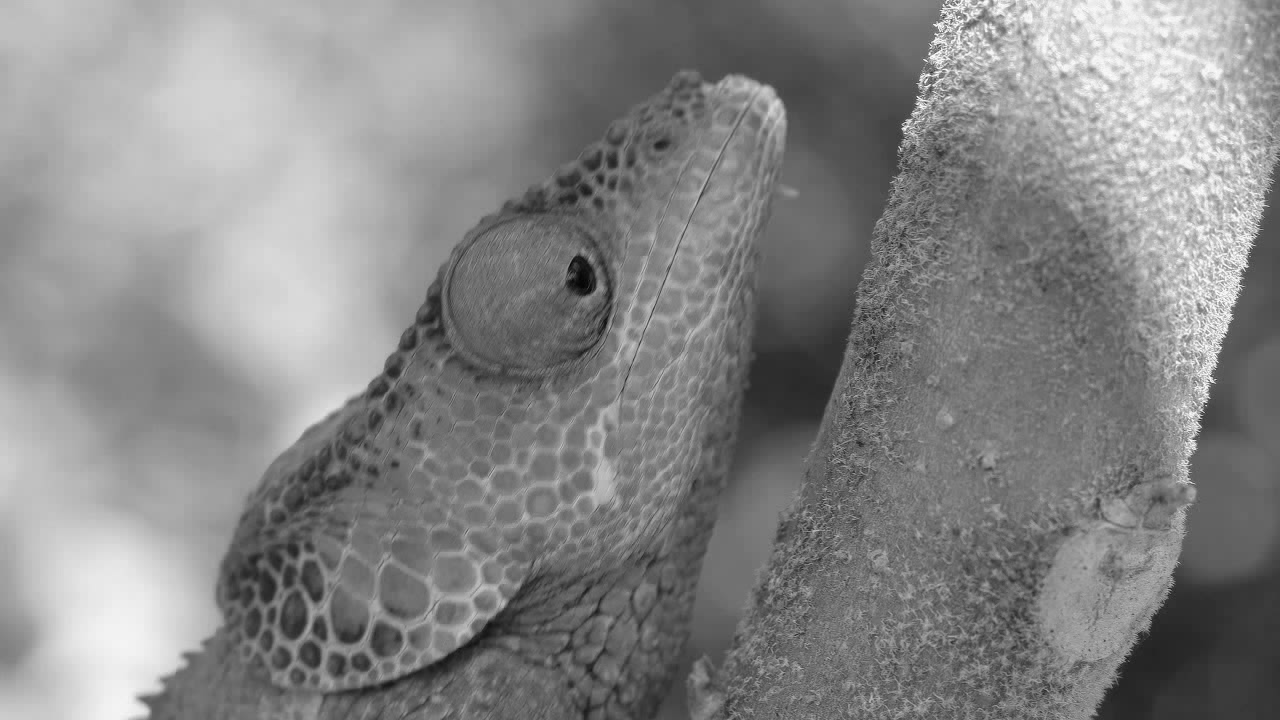
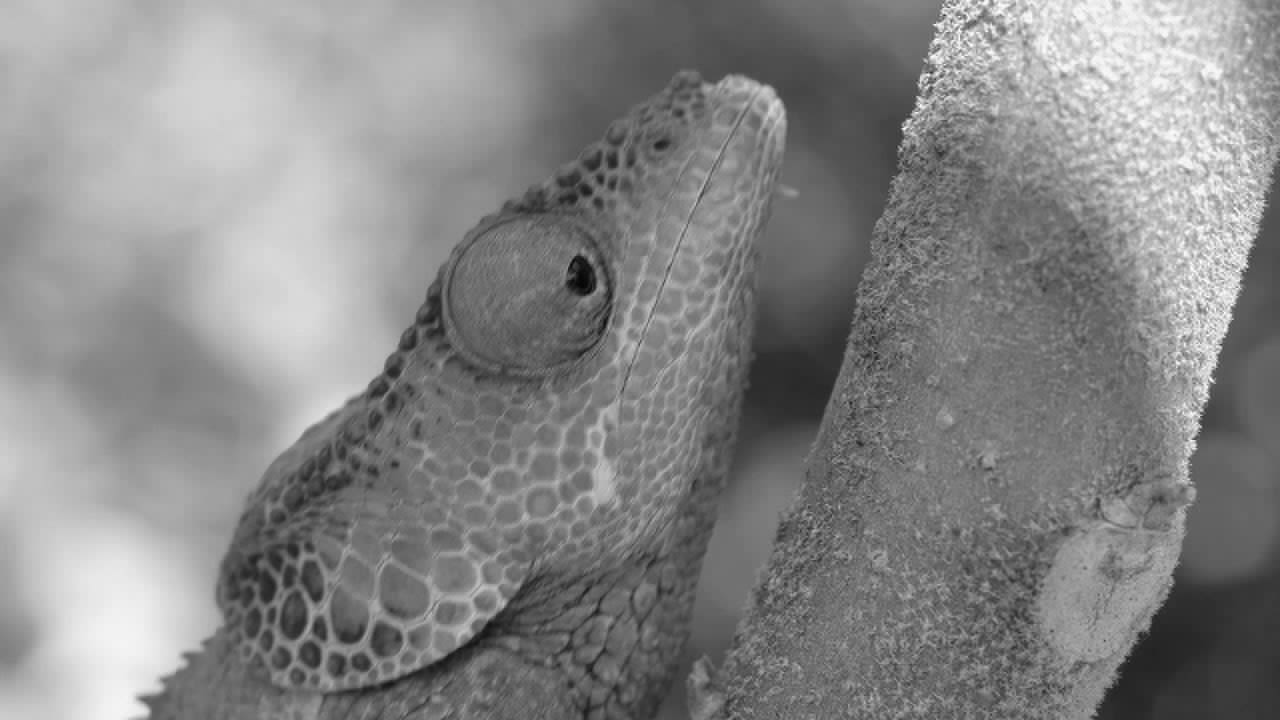
readme update

diff --git a/README.md b/README.md
@@ -21,6 +21,7 @@ git pull origin main
 git merge project-update2
 git push origin main
 
+# on build machine run to generate binary for U280
 source $XILINX_VITIS/settings64.sh
 source $XILINX_XRT/setup.sh
 
@@ -35,10 +36,12 @@ v++ -l -t hw \
     -o top_dct.hw.xclbin \
     top_dct.xo
 
-g++ -std=c++17 -O2 \
-    dct_test.cpp dct.cpp inv_dct.cpp top_dct.cpp \
-    -o dct_host
 
-copied to node
-then ran using
+# when on the U280
+git clone https://github.com/govi-luck-neu/fpga-dct.git
+
+generate host file
+g++ -std=c++17 -O2 dct_test.cpp dct.cpp inv_dct.cpp top_dct.cpp -o dct_host
+
+run using .xclbin file
 ./dct_host top_dct.hw.xclbin in.dat
